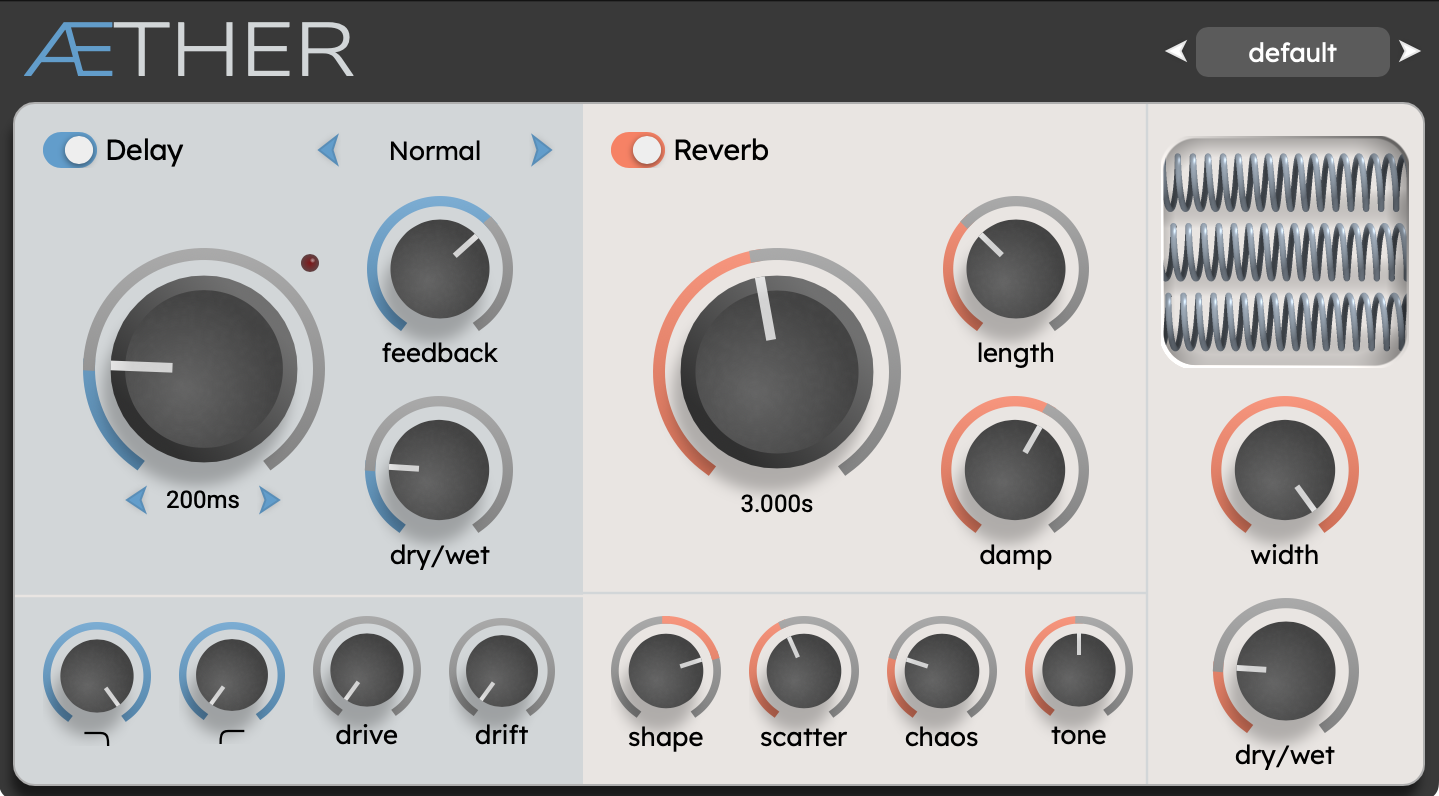
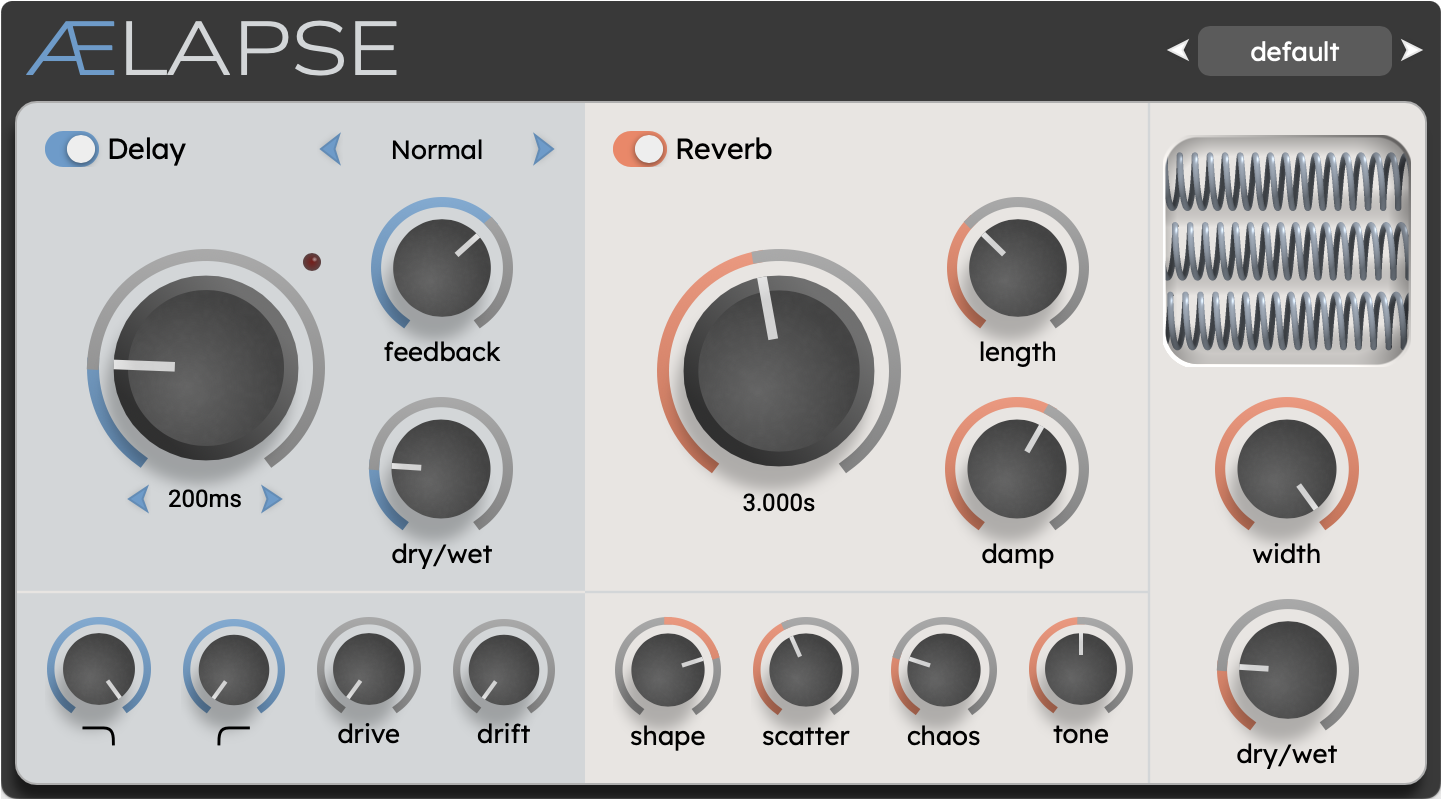
rename aether -> aelapse

diff --git a/src/PluginProcessor.cpp b/src/PluginProcessor.cpp
@@ -9,7 +9,7 @@
 #include <cstddef>
 #include <memory>
 
-namespace aether
+namespace aelapse
 {
 
 //==============================================================================
@@ -125,7 +125,7 @@ double PluginProcessor::getTailLengthSeconds() const { return 0.0; }
 
 int PluginProcessor::getNumPrograms()
 {
-    return aether::PresetManager::kNFactoryPreset + 1;
+    return aelapse::PresetManager::kNFactoryPreset + 1;
 }
 
 int PluginProcessor::getCurrentProgram()
@@ -140,7 +140,7 @@ void PluginProcessor::setCurrentProgram(int index)
 
 const juce::String PluginProcessor::getProgramName(int index)
 {
-    return aether::PresetManager::getPresetName(static_cast<size_t>(index));
+    return aelapse::PresetManager::getPresetName(static_cast<size_t>(index));
 }
 
 void PluginProcessor::changeProgramName(int index, const juce::String &newName)
@@ -195,7 +195,7 @@ void PluginProcessor::addProcessorAsListener(
     parameterValueChanged(param->getParameterIndex(), param->getValue());
 }
 
-} // namespace aether
+} // namespace aelapse
 
 //==============================================================================
 juce::AudioProcessor *JUCE_CALLTYPE createPluginFilter()
@@ -204,9 +204,9 @@ juce::AudioProcessor *JUCE_CALLTYPE createPluginFilter()
     auto infos = dsp::cpu::getInfos();
 
     if (infos.avx2 && infos.fma3_sse42) {
-        return aether::loadPluginAVX2();
+        return aelapse::loadPluginAVX2();
     }
 #endif
 
-    return aether::loadPluginDefault();
+    return aelapse::loadPluginDefault();
 }

diff --git a/src/GUI/CustomLNF.cpp b/src/GUI/CustomLNF.cpp
@@ -10,7 +10,7 @@
 #include <cstdint>
 #include <cstdlib>
 
-namespace aether
+namespace aelapse
 {
 
 CustomLNF::CustomLNF()
@@ -124,11 +124,11 @@ void CustomLNF::drawRotarySlider(juce::Graphics &g, int x, int y, int width,
     Slider::Polarity polarity = Slider::kUnipolar;
     bool hasOutline           = false;
     float maxPos              = 1.0f;
-    auto *aetherSlider        = dynamic_cast<Slider *>(&slider);
-    if (aetherSlider != nullptr) {
-        polarity   = aetherSlider->getPolarity();
-        hasOutline = aetherSlider->getHasOutline();
-        maxPos     = aetherSlider->getMaxPos();
+    auto *aelapseSlider        = dynamic_cast<Slider *>(&slider);
+    if (aelapseSlider != nullptr) {
+        polarity   = aelapseSlider->getPolarity();
+        hasOutline = aelapseSlider->getHasOutline();
+        maxPos     = aelapseSlider->getMaxPos();
     }
 
     /* INDICATOR ARC */
@@ -555,4 +555,4 @@ void CustomLNF::drawPopupMenuItem(
     }
 }
 
-} // namespace aether
+} // namespace aelapse

diff --git a/src/PluginProcessorArch.cpp b/src/PluginProcessorArch.cpp
@@ -1,6 +1,6 @@
 #include "PluginProcessorArch.h"
 
-namespace aether::DSP_ARCH_NAMESPACE
+namespace aelapse::DSP_ARCH_NAMESPACE
 {
 
 //==============================================================================
@@ -212,9 +212,9 @@ void PluginProcessor::processBlock(juce::AudioBuffer<float> &buffer,
     // update rms buffer position
     rmsPos_.store(static_cast<int>(*springs_.getRMSStackPos()));
 }
-} // namespace aether::DSP_ARCH_NAMESPACE
+} // namespace aelapse::DSP_ARCH_NAMESPACE
 
-namespace aether
+namespace aelapse
 {
 
 #if DSP_AVX
@@ -228,4 +228,4 @@ juce::AudioProcessor *LOADFUNC()
     return new DSP_ARCH_NAMESPACE::PluginProcessor();
 }
 
-} // namespace aether
+} // namespace aelapse

diff --git a/src/GUI/Title.cpp b/src/GUI/Title.cpp
@@ -5,7 +5,7 @@
 #include "juce_core/juce_core.h"
 #include "juce_graphics/juce_graphics.h"
 
-namespace aether
+namespace aelapse
 {
 
 Title::Title()
@@ -20,7 +20,7 @@ Title::Title()
     juce::AttributedString attrString;
 
     attrString.append(juce::String::fromUTF8(u8"Æ"), titleFont, mainColour);
-    attrString.append(juce::String("THER"), titleFont, backColour);
+    attrString.append(juce::String("LAPSE"), titleFont, backColour);
 
     // fix width
     maxWidth_ =
@@ -33,4 +33,4 @@ Title::Title()
 
 void Title::draw(juce::Graphics &g) { textLayout_.draw(g, bounds_); }
 
-} // namespace aether
+} // namespace aelapse

diff --git a/src/PluginProcessorArch.h b/src/PluginProcessorArch.h
@@ -5,10 +5,10 @@
 #include "Springs.h"
 #include "TapeDelay.h"
 
-namespace aether::DSP_ARCH_NAMESPACE
+namespace aelapse::DSP_ARCH_NAMESPACE
 {
 
-class PluginProcessor final : public aether::PluginProcessor
+class PluginProcessor final : public aelapse::PluginProcessor
 {
   public:
     void prepareToPlay(double sampleRate, int samplesPerBlock) override;
@@ -31,4 +31,4 @@ class PluginProcessor final : public aether::PluginProcessor
     processors::Springs springs_;
 };
 
-} // namespace aether::DSP_ARCH_NAMESPACE
+} // namespace aelapse::DSP_ARCH_NAMESPACE

diff --git a/src/GUI/Title.h b/src/GUI/Title.h
@@ -2,13 +2,13 @@
 
 #include <juce_gui_basics/juce_gui_basics.h>
 
-namespace aether
+namespace aelapse
 {
 
 class Title
 {
   public:
-    static constexpr auto kTitleString = u8"ÆTHER";
+    static constexpr auto kTitleString = u8"ÆLAPSE";
 
     Title();
     void setBounds(juce::Rectangle<float> bounds) { bounds_ = bounds; }
@@ -20,4 +20,4 @@ class Title
     juce::Rectangle<float> bounds_;
     float maxWidth_{};
 };
-} // namespace aether
+} // namespace aelapse

diff --git a/src/GUI/Typefaces.cpp b/src/GUI/Typefaces.cpp
@@ -3,7 +3,7 @@
 
 Typefaces::Typefaces() :
     title{juce::Typeface::createSystemTypefaceFor(
-        Fonts::NunitoSans320_ttf, Fonts::NunitoSans320_ttfSize)},
+        Fonts::NunitoSans320300_ttf, Fonts::NunitoSans320300_ttfSize)},
     dfault{juce::Typeface::createSystemTypefaceFor(Fonts::Lexend300_ttf,
                                                    Fonts::Lexend300_ttfSize)},
     defaultMono{juce::Typeface::createSystemTypefaceFor(

diff --git a/src/GUI/DelaySection.cpp b/src/GUI/DelaySection.cpp
@@ -9,7 +9,7 @@
 #include "juce_graphics/juce_graphics.h"
 #include "juce_gui_basics/juce_gui_basics.h"
 
-namespace aether
+namespace aelapse
 {
 
 DelaySection::DelaySection(PluginProcessor &processor) :
@@ -320,4 +320,4 @@ void DelaySection::paint(juce::Graphics &g)
                bounds.getWidth(), CustomLNF::kSepWidth);
 }
 
-} // namespace aether
+} // namespace aelapse

diff --git a/src/GUI/Led.h b/src/GUI/Led.h
@@ -1,7 +1,7 @@
 #include <juce_audio_processors/juce_audio_processors.h>
 #include <juce_gui_basics/juce_gui_basics.h>
 
-namespace aether
+namespace aelapse
 {
 
 class Led : public juce::Component, private juce::Timer
@@ -26,4 +26,4 @@ class Led : public juce::Component, private juce::Timer
     float intensity_{0.f};
 };
 
-} // namespace aether
+} // namespace aelapse

diff --git a/src/GUI/Widgets.h b/src/GUI/Widgets.h
@@ -6,7 +6,7 @@
 #include <juce_audio_processors/juce_audio_processors.h>
 #include <juce_gui_basics/juce_gui_basics.h>
 
-namespace aether
+namespace aelapse
 {
 
 using APVTS = juce::AudioProcessorValueTreeState;
@@ -147,4 +147,4 @@ class SliderWithLabel : public Widget<Slider>
     APVTS::SliderAttachment attachment_;
 };
 
-} // namespace aether
+} // namespace aelapse

diff --git a/src/GUI/ToolTip.cpp b/src/GUI/ToolTip.cpp
@@ -5,7 +5,7 @@
 #include "juce_graphics/juce_graphics.h"
 #include "juce_gui_basics/juce_gui_basics.h"
 
-namespace aether
+namespace aelapse
 {
 
 void ToolTip::setFromComponent(juce::Component *component)
@@ -69,4 +69,4 @@ void ToolTip::paint(juce::Graphics &g)
     textLayout_.draw(g, getLocalBounds().toFloat());
 }
 
-} // namespace aether
+} // namespace aelapse

diff --git a/src/GUI/ArrowButton.cpp b/src/GUI/ArrowButton.cpp
@@ -3,7 +3,7 @@
 #include "juce_graphics/juce_graphics.h"
 #include "juce_gui_basics/juce_gui_basics.h"
 
-namespace aether
+namespace aelapse
 {
 
 ArrowButton::ArrowButton(const juce::String &name,
@@ -46,4 +46,4 @@ void ArrowButton::paintButton(juce::Graphics &g,
     g.strokePath(p, juce::PathStrokeType(1.f));
 }
 
-} // namespace aether
+} // namespace aelapse
